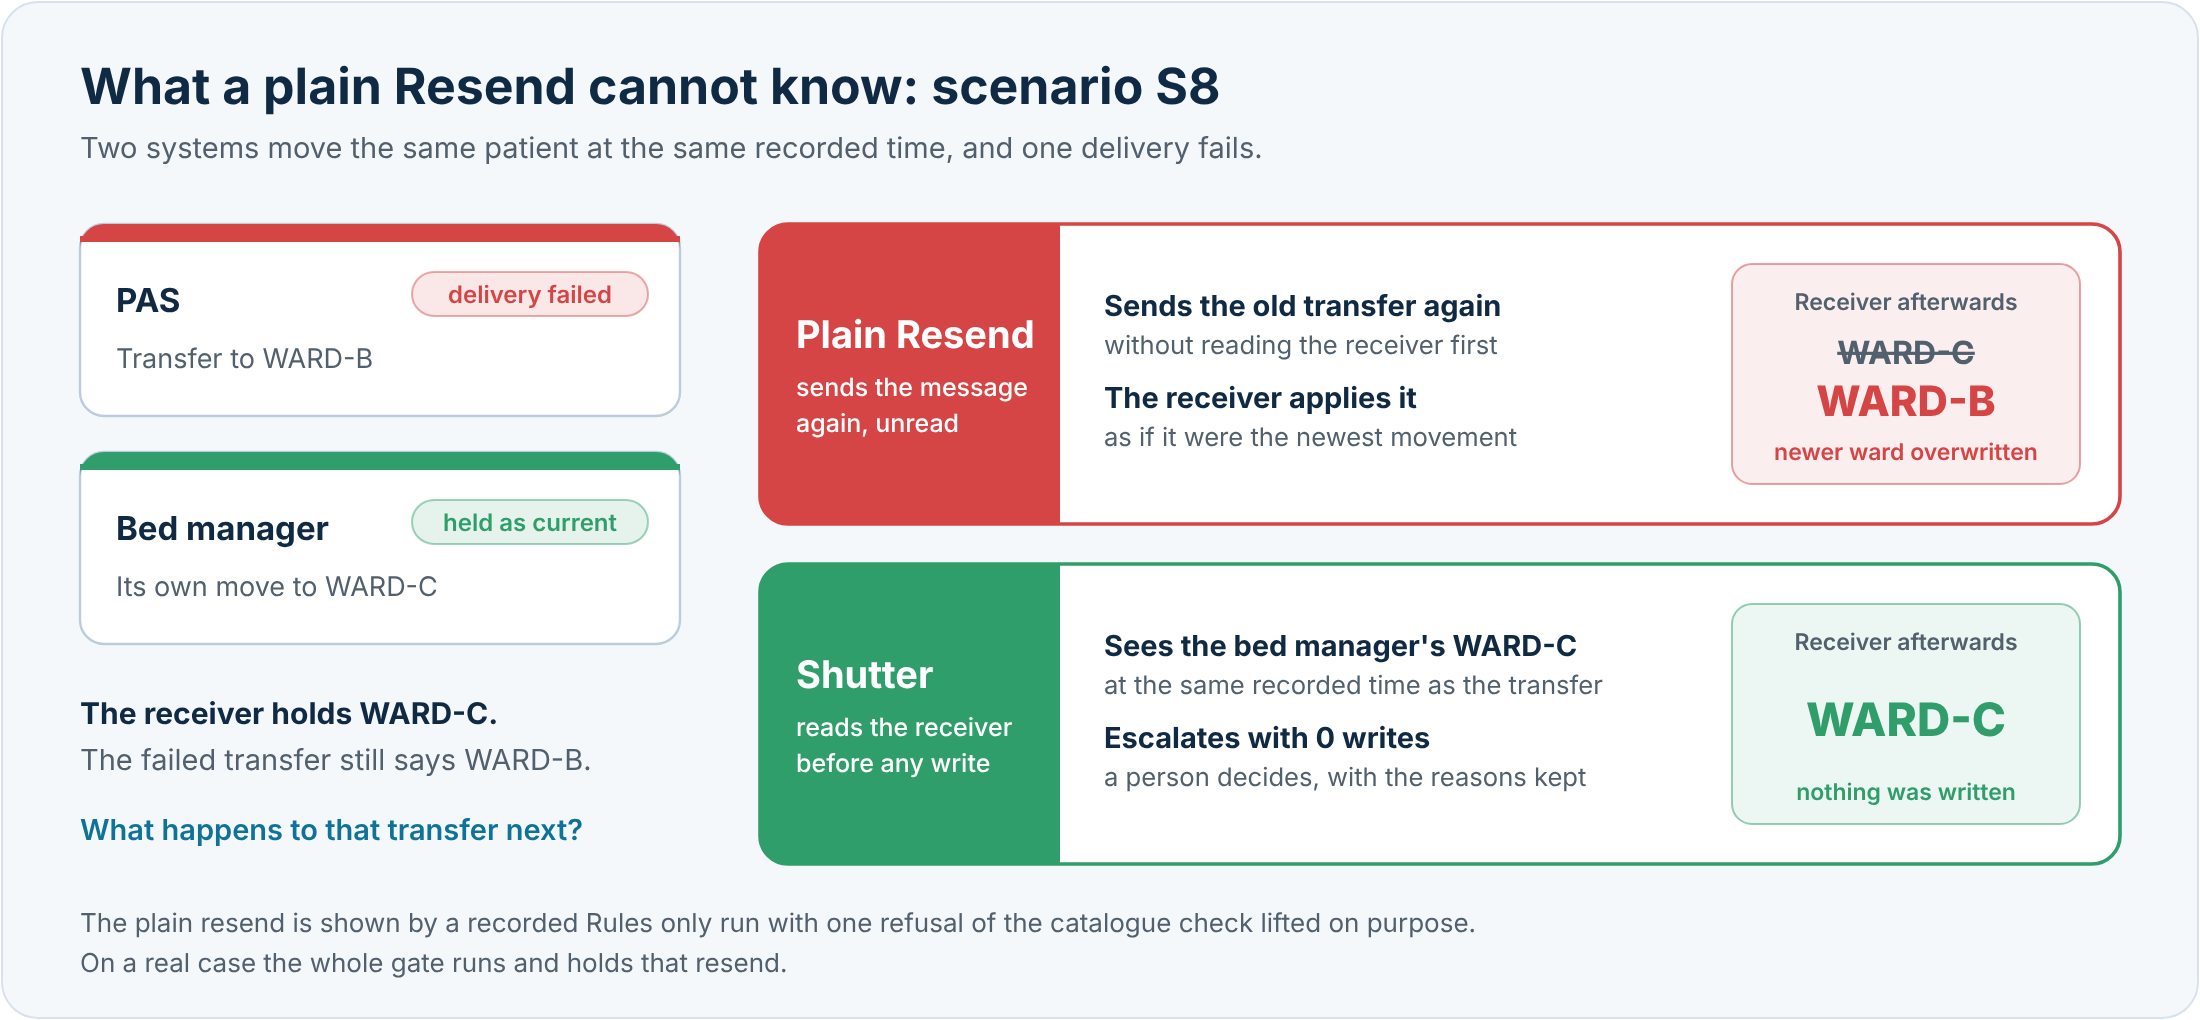
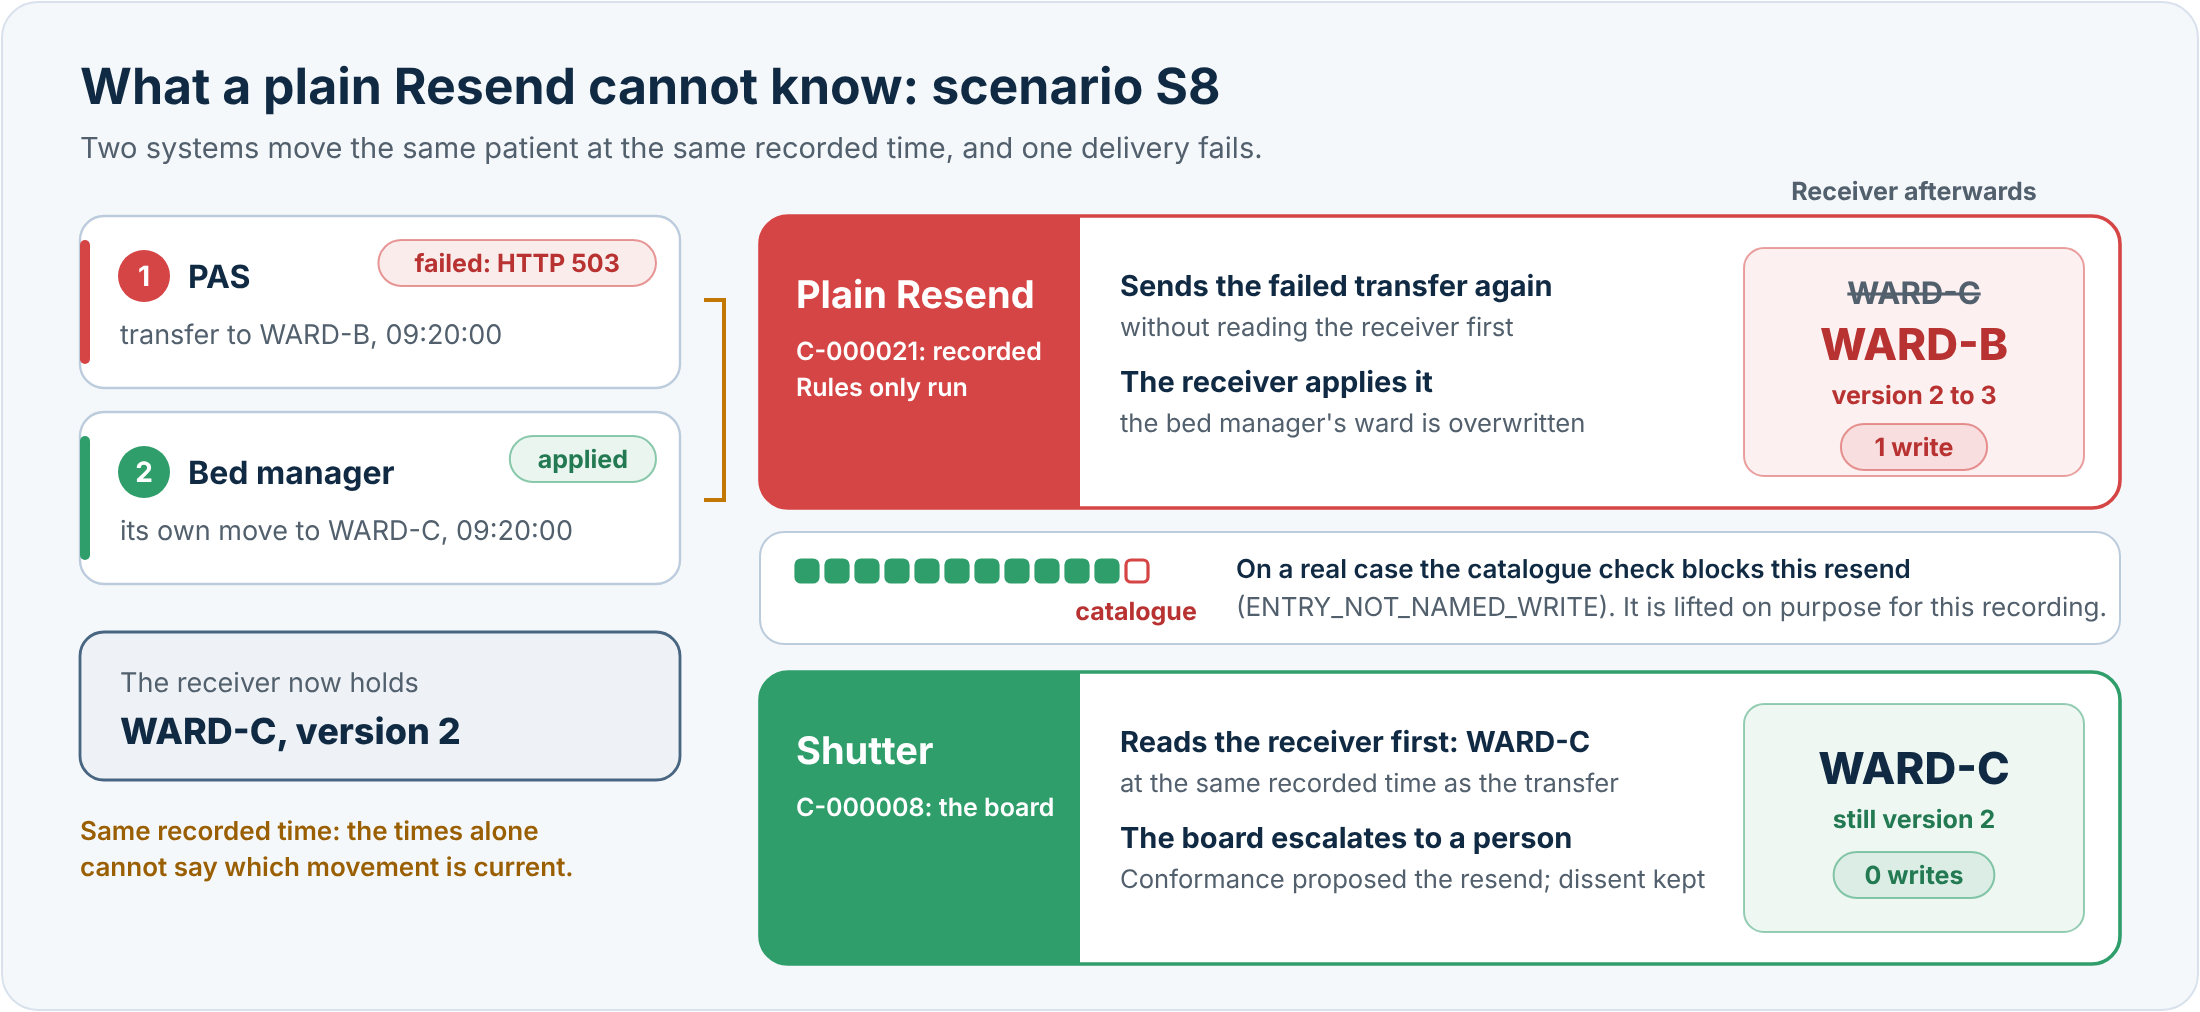
README: the two diagrams carry more, and say it more exactly
The flow shows the dry run and the gate's second run as steps of the resend, names the four agents and what
each reads, marks where IRIS Interoperability, Vector Search, Visual Trace and the Workflow task appear, and
says that the picture is Board mode and what Site policy may release. S8 shows both senders with their
recorded time, the receiver's versions before and after, the two cases by number, and the catalogue check
that blocks the plain resend on a real case.

diff --git a/README.md b/README.md
@@ -38,7 +38,7 @@ On an ordinary day a hospital's integration engine can see hundreds of failed me
 
 **Why I built it:** the failures above are the ones I met in my interoperability work with 28 NHS hospitals. At one trust we checked every interface daily for failed messages, and I wrote a 30-page guide to handling them. Not every clinical system checks what it receives. When a bed transfer from I.PM failed to reach NerveCentre and clinicians corrected the history there by hand, resending the failures in order could displace several patients, because NerveCentre won't put two patients in one bed and moves the other to the waiting area. Blindly resending coding messages from NerveCentre to Careflow would overwrite a patient's coding and end-date it as of today, and on older PAS systems a resent A02 for a past spell could reopen it, leaving two active spells. That is why Shutter reads the receiver before it writes. While building Shutter I filed AI Hub bug reports [#11](https://github.com/intersystems-community/ai-hub-eap-bugreports/issues/11), [#12](https://github.com/intersystems-community/ai-hub-eap-bugreports/issues/12), [#22](https://github.com/intersystems-community/ai-hub-eap-bugreports/issues/22) and [#23](https://github.com/intersystems-community/ai-hub-eap-bugreports/issues/23).
 
-![One failed delivery in four steps: a delivery fails, the evidence is sealed, the agents propose, the gate decides. Then one of three plans: resend it after a person approves, with one conditional write verified at the receiver (S2); close it with nothing sent because the receiver already holds the movement (S3); or stop with nothing sent so that a person decides (S8)](https://raw.githubusercontent.com/MxSalata/shutter/main/docs/readme/images/one-failed-delivery.png)
+![One failed delivery in four steps: a watched production reports the failure, the evidence is sealed in one snapshot with a SHA-256 digest, four agents on IRIS AI Hub propose with no write tool, and a gate of twelve checks decides, at the proposal and again at dispatch. Then the checked plan is one of three. Resend it (S2, 1 write): a dry run at the receiver, a person's approval in a Workflow task, the gate again after a fresh read, one conditional write, verified from the receiver's receipt and history. Close it (S3, 0 writes): only the ACK was lost and the receiver's own receipt says so. Stop (S8, 0 writes): the evidence cannot settle it, the board escalates and a person decides](https://raw.githubusercontent.com/MxSalata/shutter/main/docs/readme/images/one-failed-delivery.png)
 
 ## For judges
 
@@ -101,7 +101,7 @@ Live spending on the demo is capped at 5 USD an hour and 15 USD a day. Within th
 
 ## What a plain Resend cannot know
 
-![Scenario S8 as a diagram: the PAS transfer to WARD-B fails while the bed manager holds its own move to WARD-C. A plain Resend sends the old transfer again and the receiver ends with WARD-B over WARD-C; Shutter reads the receiver first, escalates with 0 writes, and the receiver keeps WARD-C](https://raw.githubusercontent.com/MxSalata/shutter/main/docs/readme/images/s8-plain-resend-or-shutter.png)
+![Scenario S8 as a diagram: the PAS transfer to WARD-B fails with HTTP 503 while the bed manager's own move to WARD-C, at the same recorded time, is applied, so the receiver holds WARD-C at version 2. A plain Resend, shown by the recorded Rules only case C-000021, sends the failed transfer again and the receiver ends with WARD-B over WARD-C, version 2 to 3. On a real case the gate's catalogue check blocks that resend; it is lifted on purpose for this recording. Shutter, in case C-000008, reads the receiver first, the board escalates to a person with the Conformance specialist's dissent kept, and the receiver still holds WARD-C at version 2, with 0 writes](https://raw.githubusercontent.com/MxSalata/shutter/main/docs/readme/images/s8-plain-resend-or-shutter.png)
 
 A plain **Resend** sends the same message again without reading the receiver first, so it can repeat something the receiver already holds or revive a cancelled movement. The S numbers are scenarios on the trial's **Scenarios** page; F09 is a held-out test case.
 
